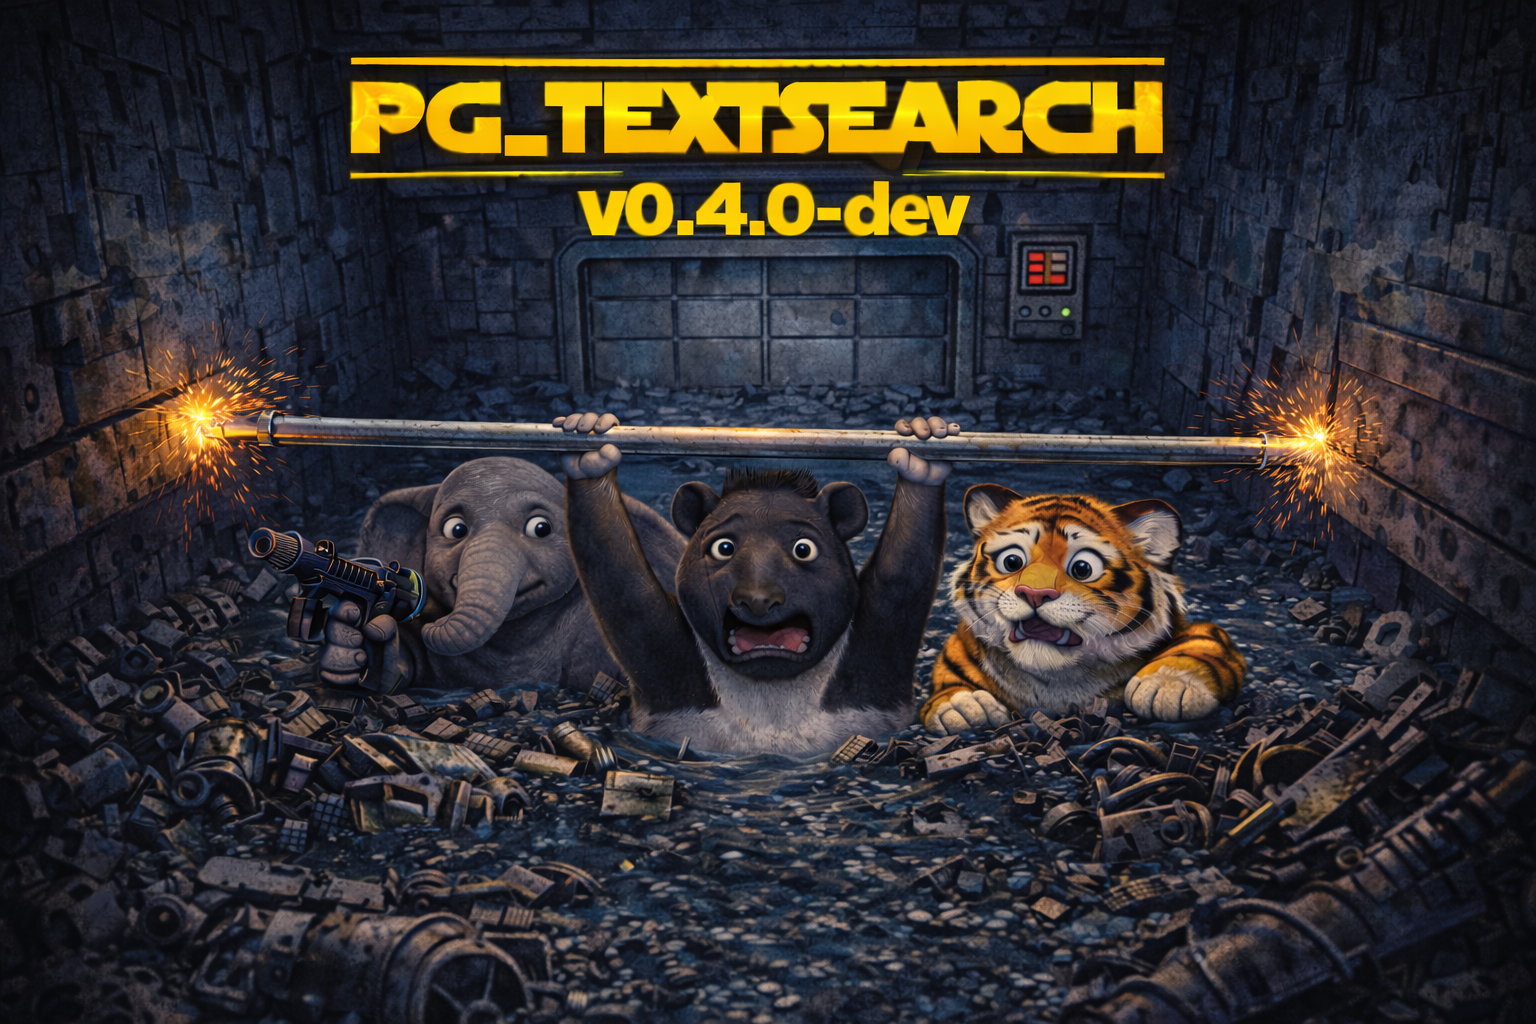
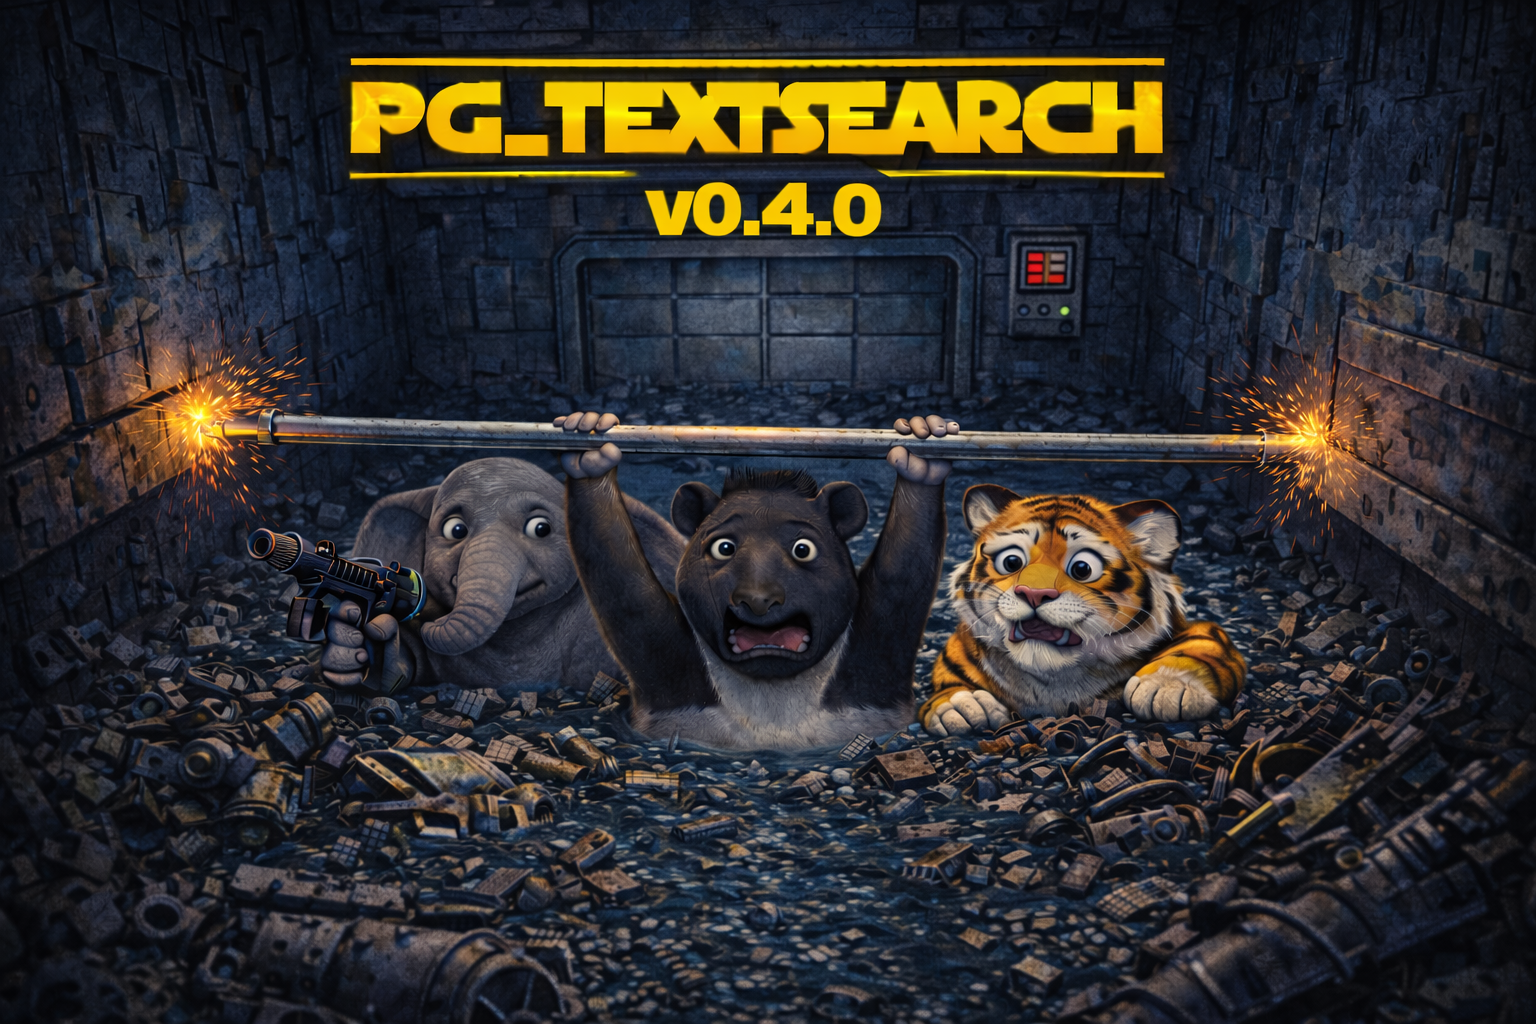
Release v0.4.0
- Update version from 0.4.0-dev to 0.4.0
- Rename SQL files to drop -dev suffix
- Add CHANGELOG entries for v0.3.0 and v0.4.0

diff --git a/CHANGELOG.md b/CHANGELOG.md
@@ -1,5 +1,42 @@
 # Changelog
 
+## v0.4.0
+
+### New Features
+
+- **Segment block compression**: LZ4 compression for posting list blocks,
+  reducing index size
+
+### Improvements
+
+- Coverity static analysis integration for detecting code quality issues
+- Implement AMPROP_DISTANCE_ORDERABLE in amproperty for better planner support
+
+### Bug Fixes
+
+- Fixed 'too many LWLocks taken' error on partitioned tables
+- Fixed Coverity static analysis issues
+
+## v0.3.0
+
+### New Features
+
+- **Block-Max WAND optimization**: 4x faster top-k queries using block-level
+  upper bounds to skip non-contributing blocks
+
+### Improvements
+
+- Added code coverage workflow with Codecov integration
+- Added segment integrity tests
+- Added nightly stress tests with memory leak detection
+- Added competitive benchmarks comparing pg_textsearch to other search engines
+- Code consolidation and refactoring for better maintainability
+
+### Bug Fixes
+
+- Fixed memory leaks by using private DSA for index builds
+- Fixed bm25query varlena detoasting for binary I/O and scoring
+
 ## v0.2.0
 
 ### New Features

diff --git a/README.md b/README.md
@@ -12,8 +12,8 @@ Modern ranked text search for Postgres.
 - Supports partitioned tables
 - Best in class performance and scalability
 
-🚀 **Status**: v0.4.0-dev - Query performance is production-ready. Index compression
-is here; parallel index builds coming later in January 2026. See [ROADMAP.md](ROADMAP.md) for details.
+🚀 **Status**: v0.4.0 - Query performance is production-ready. Index compression
+is here; parallel index builds coming soon. See [ROADMAP.md](ROADMAP.md) for details.
 
 ![Tapir and Friends](images/tapir_and_friends_v0.4.0.png)
 

diff --git a/CLAUDE.md b/CLAUDE.md
@@ -10,7 +10,7 @@ ranking. (Internal name: Tapir) It implements a memtable-based architecture
 similar to LSM trees, with in-memory structures that spill to disk segments
 for scalability.
 
-**Current Version**: 0.4.0-dev
+**Current Version**: 0.4.0
 
 **Postgres Version Support**: 17, 18 (tested in CI)
 
